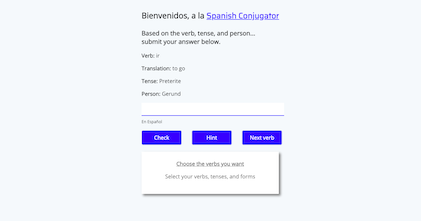
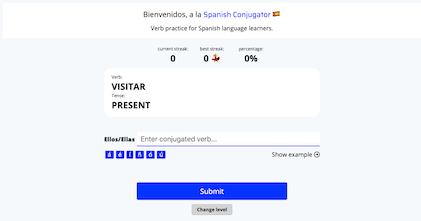
Added bookmaps.js, changed conjugator image, altered about me

diff --git a/src/pages/projects/BookMaps.js b/src/pages/projects/BookMaps.js
@@ -1,0 +1,67 @@
+import React from 'react'
+import '../../css/styles.css'
+import {StaticQuery, graphql} from 'gatsby'
+import Img from 'gatsby-image'
+import react from '../../images/react-logo-rectangle.png'
+import materialui from '../../images/materialui-logo-square.png'
+import redux from '../../images/redux-logo-rectangle.png'
+import node from '../../images/node-logo-rectangle.png'
+import postgreSQL from '../../images/postgreSQL-logo-rectangle.png'
+
+const BookMaps = () => (
+
+    <StaticQuery 
+        query = {graphql`
+            query {
+                file(relativePath: {
+                    regex: "/bookmaps/"
+                }) {
+                    childImageSharp {
+                        sizes(quality: 100) {
+                            ...GatsbyImageSharpSizes
+                        }   
+                    }
+                }
+            }
+        `}
+        render={
+            data => (
+                <div className="project-card-wrapper">
+                    <div className="project-card">
+                        <Img className="project-card-img" sizes={data.file.childImageSharp.sizes} alt="book maps screen"/>
+                    </div>
+                    <div className="project-content">
+                        <h4>Book Maps</h4>
+                        <p style={{fontFamily: "Lato,Helvetica,Arial,Lucida,sans-serif"}}><span style={{fontStyle: "italic"}}>Under construction</span> <span role="img" aria-label="construction sign">🚧</span></p>
+                        <p className="left-paragraph">A marketplace app that helps neighbours share their book collections. I'm working as a full stack developer, connecting the database, authentication / authorization, and chat, using PostgreSQL, OAuth, Twilio, and more.</p>
+                        <div>
+                            <img src={react} alt="react logo"/>
+                            <img src={redux} alt="redux logo"/>
+                            <img src={node} alt="node logo"/>
+                            <img src={postgreSQL} alt="postgreSQL logo"/>
+                            <img src={materialui} alt="material ui logo"/>
+                        </div>
+                    </div>
+                    <div>
+                            <a 
+                                className="purple-button"
+                                href="https://github.com/labs11-library" 
+                                target="_blank" 
+                                rel="noopener noreferrer">
+                                Code
+                            </a>
+                            {/* <a 
+                                className="purple-button"
+                                href="https://spanish-conjugator.netlify.com/" 
+                                target="_blank" 
+                                rel="noopener noreferrer">
+                                Website
+                            </a> */}
+                        </div>
+                </div>
+            )
+        }
+    />
+)
+
+export default BookMaps

diff --git a/src/pages/index.js b/src/pages/index.js
@@ -17,7 +17,7 @@ const index = () => {
             <div className="page-wrapper">
                 <h2>Hey! I'm Blake Fletcher.</h2>
                 <p className="homepage-paragraph">I like to find ways to connect technology to the things I love, like music, reading, learning, and connecting with others. I build things on the web, and tend to focus on front end, design, product, and sometimes growth. I enjoy teaming up with other makers like me.</p>
-                <p className="homepage-paragraph">Currently, I live in Toronto and work as a Project Manager for <a href="https://lambdaschool.com/" target="_blank" rel="noopener noreferrer">Lambda School</a>, helping graduates get the best jobs they've ever had.</p>
+                <p className="homepage-paragraph">Currently, I live in Toronto where I'm finishing up Lambda School, studying full stack web development, and working on my capstone, <a href="https://github.com/labs11-library" target="_blank" rel="noopener noreferrer">Book Maps</a>, a web app that helps neighbours share their book collections.</p>
                 <p className="homepage-paragraph">I want to talk to people about their big plans – their dreams – and how they hope to accomplish them. One day, I’d like to know how to build rocketships from scratch and fly them into outer space. That may or may not be a metaphor.</p>
             </div>
             <p className="say-hello">Say hello, I’d love to connect: <a href="mailto:blkfltchr@gmail.com" target="_blank" rel="noopener noreferrer">blkfltchr@gmail.com</a></p>

diff --git a/src/pages/projects.js b/src/pages/projects.js
@@ -8,6 +8,7 @@ import GoToRecipes from './projects/GoToRecipes'
 import LambdaTimeline from './projects/LambdaTimeline';
 import SpanishConjugator from './projects/SpanishConjugator';
 import LambdaSky from './projects/LambdaSky';
+import BookMaps from './projects/BookMaps';
 
 const Projects = () => {
     return (
@@ -22,6 +23,7 @@ const Projects = () => {
                 <h2>Projects.</h2>
                 <div>
                     <SpanishConjugator />
+                    <BookMaps />
                     <HowToLearnReact />
                     <LambdaTimeline />
                     <GoToRecipes />
